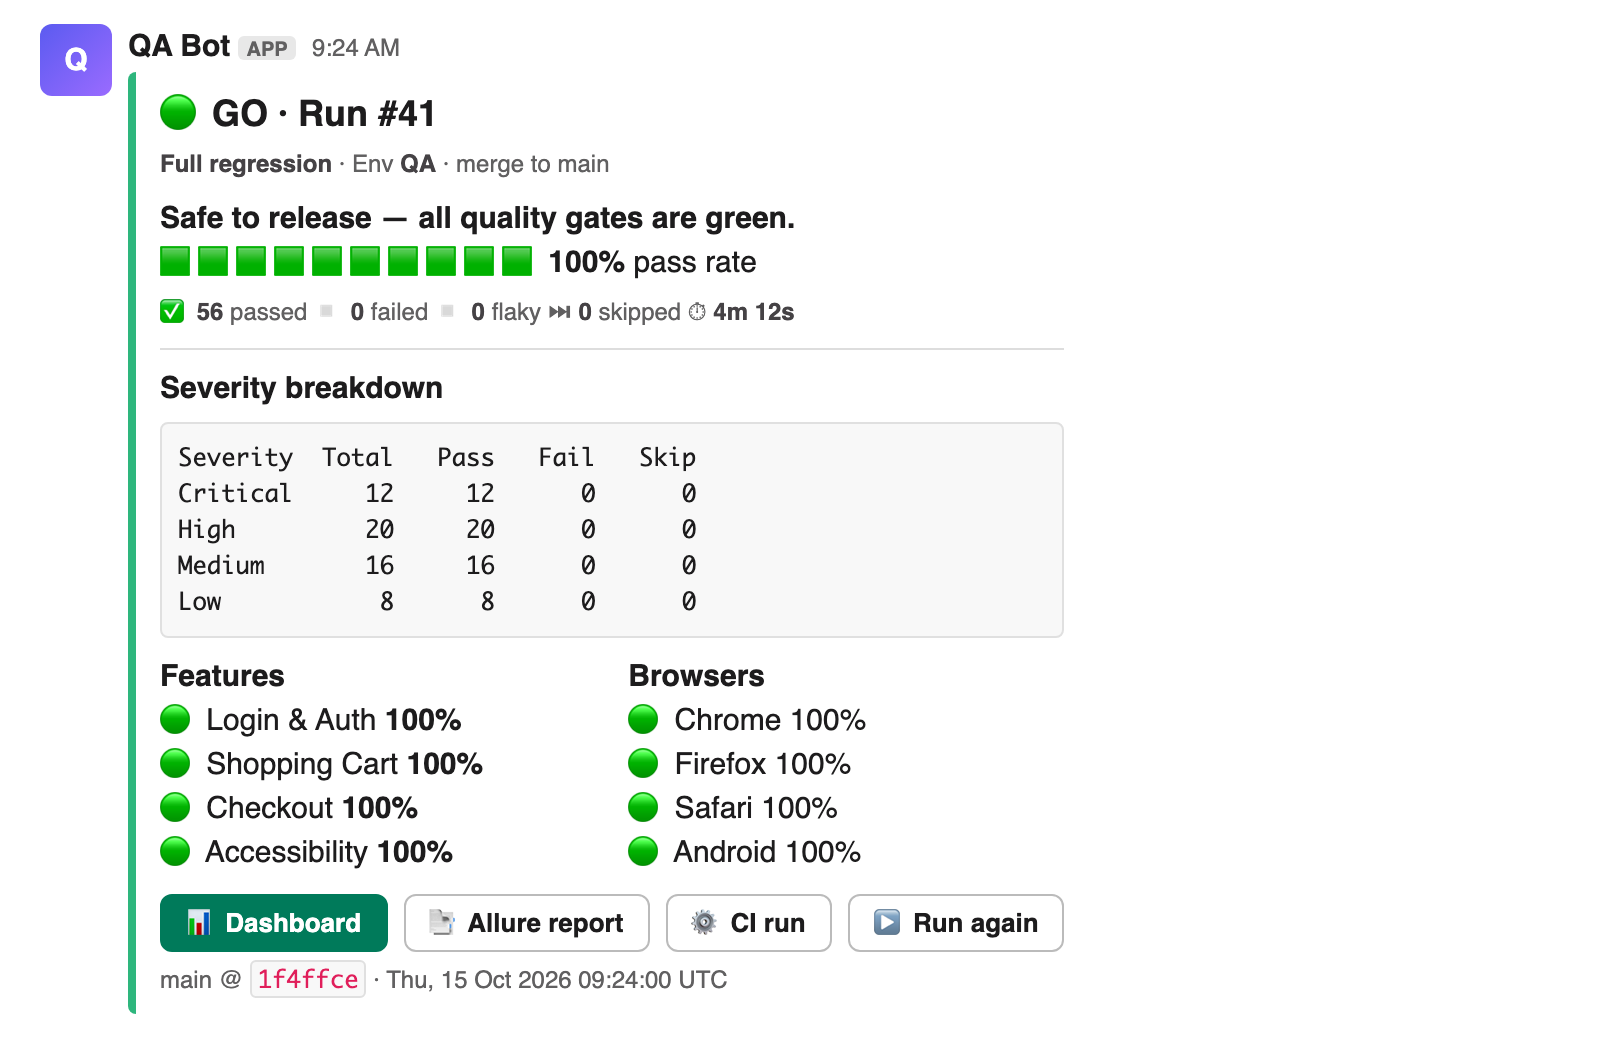
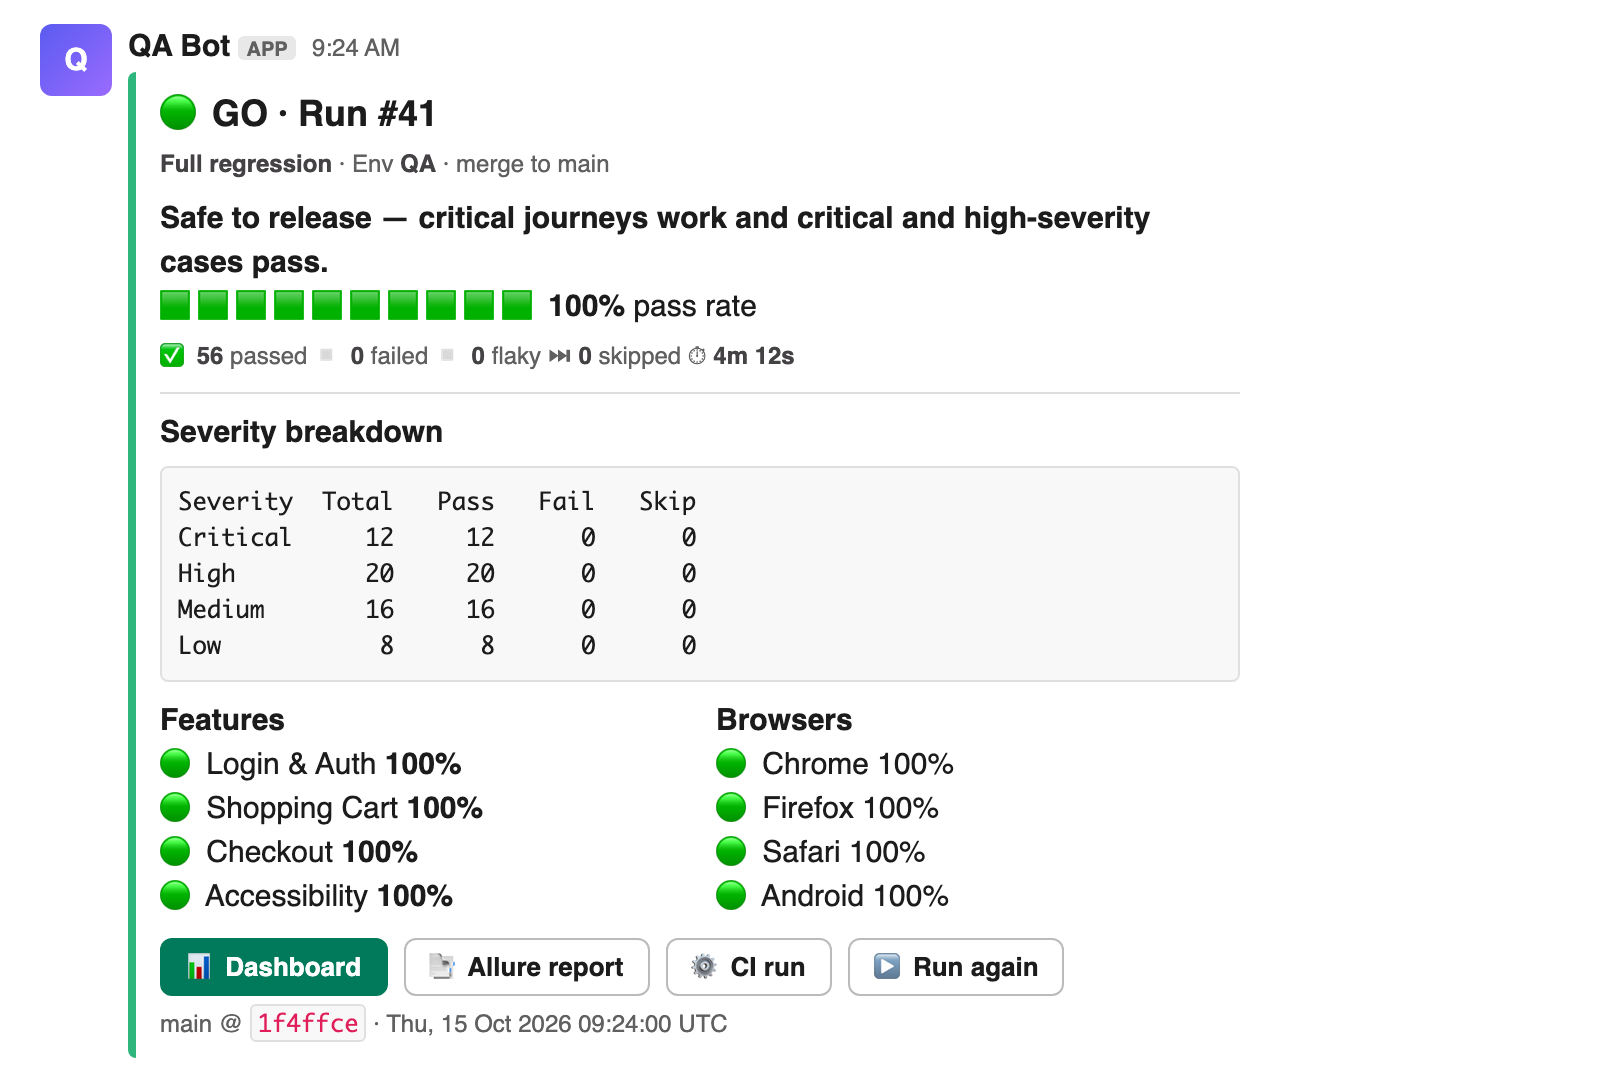
CI and Slack: environment/suite dropdowns, run form relay, redesigned message
- Workflow: environment (QA/DEV/STAGING/PROD) and suite/feature dropdowns, tag filter, inputs passed via env vars
- Slack relay: /qa-run form, @mentions, App Home tab, global shortcut; app manifests and setup guide
- Colour-coded result message with verdict, severity table and action buttons
- Lint ignores generated output

diff --git a/slack/worker/index.js b/slack/worker/index.js
@@ -13,14 +13,34 @@
 
 // Must match the workflow_dispatch choice options in .github/workflows/playwright.yml
 const ENVIRONMENTS = ['QA', 'DEV', 'STAGING', 'PROD'];
-const SUITES = ['Smoke', 'Full Regression'];
+const DEFAULT_ENV = 'PROD';
+const RUN_TYPES = ['Smoke', 'Full Regression'];
+// Feature suites -> words people may type after /qa-run or in a mention (first match wins, so list specific names first)
+const FEATURES = {
+  'Product Details': ['product details', 'details'],
+  'Product Listing': ['listing', 'inventory', 'products'],
+  Login: ['login'],
+  Cart: ['cart'],
+  Checkout: ['checkout'],
+  'Menu & Navigation': ['menu', 'navigation'],
+  'Dynamic Catalog': ['catalog', 'dynamic'],
+  Accessibility: ['accessibility', 'a11y'],
+  'User Profiles': ['users', 'profiles'],
+};
+const SUITES = [...RUN_TYPES, ...Object.keys(FEATURES)];
 const TAGS = ['@smoke', '@critical', '@high', '@medium', '@low'];
+const suiteFromText = (t) => {
+  if (/\bsmoke\b/.test(t)) return 'Smoke';
+  for (const [suite, words] of Object.entries(FEATURES)) if (words.some((w) => new RegExp(`\\b${w}\\b`).test(t))) return suite;
+  if (/\b(full|regression)\b/.test(t)) return 'Full Regression';
+  return null;
+};
 
 const HELP = [
   '*Usage*',
   '`/qa-run`  – open the form (environment, suite, tag)',
-  '`/qa-run smoke`  /  `/qa-run full`  – quick start on QA',
-  '`/qa-run tag @critical`  – only tests with that tag',
+  '`/qa-run smoke`  /  `full`  /  `checkout`  /  `cart`  /  `login` …  – quick start on PROD',
+  '`/qa-run checkout tag @critical`  – a suite, only tests with that tag',
 ].join('\n');
 
 const json = (body) => new Response(JSON.stringify(body), { headers: { 'Content-Type': 'application/json' } });
@@ -61,6 +81,8 @@ async function slackApi(env, method, body) {
 
 const opt = (v) => ({ text: { type: 'plain_text', text: v }, value: v });
 
+const suiteOption = (v) => ({ ...opt(v), description: { type: 'plain_text', text: v === 'Smoke' ? 'Critical journeys only, fastest' : v === 'Full Regression' ? 'Every test' : `${v} tests only` } });
+
 function formView(channel) {
   return {
     type: 'modal',
@@ -70,9 +92,12 @@ function formView(channel) {
     submit: { type: 'plain_text', text: '🚀 Start run' },
     close: { type: 'plain_text', text: 'Cancel' },
     blocks: [
-      { type: 'input', block_id: 'env_b', label: { type: 'plain_text', text: 'Environment' }, element: { type: 'static_select', action_id: 'env', initial_option: opt('QA'), options: ENVIRONMENTS.map(opt) } },
-      { type: 'input', block_id: 'suite_b', label: { type: 'plain_text', text: 'Suite' }, element: { type: 'radio_buttons', action_id: 'suite', initial_option: { ...opt('Full Regression'), description: { type: 'plain_text', text: 'Every test, all browsers' } }, options: [{ ...opt('Smoke'), description: { type: 'plain_text', text: 'Critical journeys only — fastest' } }, { ...opt('Full Regression'), description: { type: 'plain_text', text: 'Every test, all browsers' } }] } },
-      { type: 'input', block_id: 'tag_b', optional: true, label: { type: 'plain_text', text: 'Only tests tagged (optional)' }, hint: { type: 'plain_text', text: 'Overrides the suite when set.' }, element: { type: 'static_select', action_id: 'tag', placeholder: { type: 'plain_text', text: 'No tag filter' }, options: TAGS.map(opt) } },
+      { type: 'input', block_id: 'env_b', label: { type: 'plain_text', text: 'Environment' }, element: { type: 'static_select', action_id: 'env', initial_option: opt(DEFAULT_ENV), options: ENVIRONMENTS.map(opt) } },
+      { type: 'input', block_id: 'suite_b', label: { type: 'plain_text', text: 'Suite' }, element: { type: 'static_select', action_id: 'suite', initial_option: suiteOption('Smoke'), option_groups: [
+        { label: { type: 'plain_text', text: 'Run type' }, options: RUN_TYPES.map(suiteOption) },
+        { label: { type: 'plain_text', text: 'Specific feature' }, options: Object.keys(FEATURES).map(suiteOption) },
+      ] } },
+      { type: 'input', block_id: 'tag_b', optional: true, label: { type: 'plain_text', text: 'Only tests tagged (optional)' }, hint: { type: 'plain_text', text: 'Narrows the suite above, e.g. Checkout + @critical.' }, element: { type: 'static_select', action_id: 'tag', placeholder: { type: 'plain_text', text: 'No tag filter' }, options: TAGS.map(opt) } },
       { type: 'context', elements: [{ type: 'mrkdwn', text: '⚠ *PROD* runs real checkouts against production. Results are posted back to this channel.' }] },
     ],
   };
@@ -88,7 +113,7 @@ async function dispatch(env, inputs) {
   return res.status === 204;
 }
 
-const describe = (i) => `*${i.grep ? `tests tagged ${i.grep}` : i.suite}* on *${i.environment}*`;
+const describe = (i) => `*${i.suite}${i.grep ? ` · ${i.grep}` : ''}* on *${i.environment}*`;
 const actionsUrl = (env) => `https://github.com/${env.GITHUB_REPO}/actions/workflows/${env.WORKFLOW_FILE}`;
 
 async function handleCommand(form, env) {
@@ -101,11 +126,13 @@ async function handleCommand(form, env) {
     const r = await slackApi(env, 'views.open', { trigger_id: form.get('trigger_id'), view: formView(channelId) });
     return r.ok ? new Response('') : ephemeral(':x: Could not open the form. Check the relay logs (is SLACK_BOT_TOKEN set?).');
   }
-  const inputs = { environment: 'QA', requested_by: `@${userName}` };
-  if (cmd === 'smoke') inputs.suite = 'Smoke';
-  else if (cmd === 'full') inputs.suite = 'Full Regression';
-  else if (cmd === 'tag' && rest.length === 1 && TAGS.includes(rest[0])) { inputs.suite = 'Full Regression'; inputs.grep = rest[0]; }
-  else return ephemeral(HELP);
+  const inputs = { environment: DEFAULT_ENV, requested_by: `@${userName}` };
+  const words = [cmd, ...rest].join(' ').toLowerCase();
+  const tag = TAGS.find((t) => words.includes(t));
+  const suite = suiteFromText(words.replace(/\btag\b/, ''));
+  if (!suite && !tag) return ephemeral(HELP);
+  inputs.suite = suite ?? 'Full Regression';
+  if (tag) inputs.grep = tag;
 
   if (!(await dispatch(env, inputs))) return ephemeral(':x: Could not start the run. Check the relay logs / token permissions.');
   return json({ response_type: 'in_channel', text: `🚀 <@${userId}> started ${describe(inputs)}. Results will be posted here when it finishes.` });
@@ -153,9 +180,9 @@ async function handleInteractivity(payload, env, ctx) {
 // ---- @QA Bot mentions: "run smoke on qa", "full on staging", "tag @critical on dev" ----
 function parseMention(text) {
   const t = text.replace(/<@[A-Z0-9]+>/g, '').toLowerCase();
-  const environment = ENVIRONMENTS.find((e) => new RegExp(`\\b${e.toLowerCase()}\\b`).test(t)) ?? 'QA';
+  const environment = ENVIRONMENTS.find((e) => new RegExp(`\\b${e.toLowerCase()}\\b`).test(t)) ?? DEFAULT_ENV;
   const tag = TAGS.find((x) => t.includes(x));
-  const suite = /\bsmoke\b/.test(t) ? 'Smoke' : /\b(full|regression)\b/.test(t) ? 'Full Regression' : null;
+  const suite = suiteFromText(t);
   if (!suite && !tag) return null;
   const inputs = { environment, suite: suite ?? 'Full Regression' };
   if (tag) inputs.grep = tag;
@@ -167,7 +194,7 @@ async function handleMention(event, env) {
   const denied = allowed(env, event.user, event.channel);
   if (denied) return post(denied);
   const inputs = parseMention(event.text ?? '');
-  if (!inputs) return post('Try: `@QA Bot run smoke on QA`, `@QA Bot full on STAGING`, or `@QA Bot tag @critical on DEV`. Or use `/qa-run` for the form.');
+  if (!inputs) return post('Try: `@QA Bot run smoke on PROD`, `@QA Bot checkout on QA`, or `@QA Bot full on STAGING @critical`. Or use `/qa-run` for the form.');
   inputs.requested_by = `<@${event.user}>`;
   if (!(await dispatch(env, inputs))) return post(':x: Could not start the run. Check the relay logs / token permissions.');
   return post(`🚀 Started ${describe(inputs)}. I'll post the result in the channel when it finishes.`);

diff --git a/slack/README.md b/slack/README.md
@@ -121,6 +121,15 @@ Only QA or default runs on `main` update the published Allure report and dashboa
 
 ## 8. Using it
 
+### The run form
+| Field | Options | Default | Required |
+|---|---|---|---|
+| Environment | QA, DEV, STAGING, PROD | PROD | Yes |
+| Suite | **Run type:** Smoke, Full Regression. **Specific feature:** Login, Product Listing, Product Details, Cart, Checkout, Menu & Navigation, Dynamic Catalog, Accessibility, User Profiles | Smoke | Yes |
+| Only tests tagged | @smoke, @critical, @high, @medium, @low | none | No |
+
+A tag narrows the suite: *Checkout* + *@critical* runs only the critical checkout tests. Feature runs are labelled *partial* in Slack and the dashboard and are excluded from the release verdict, which always uses the latest full regression.
+
 ### Ways to start a run
 | How | What happens |
 |---|---|
